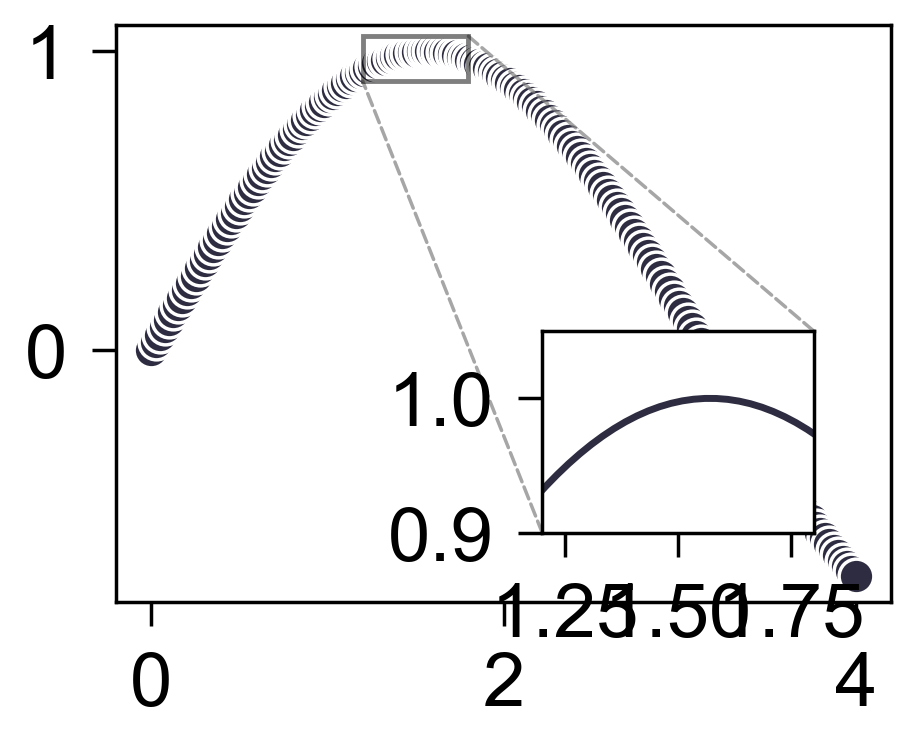
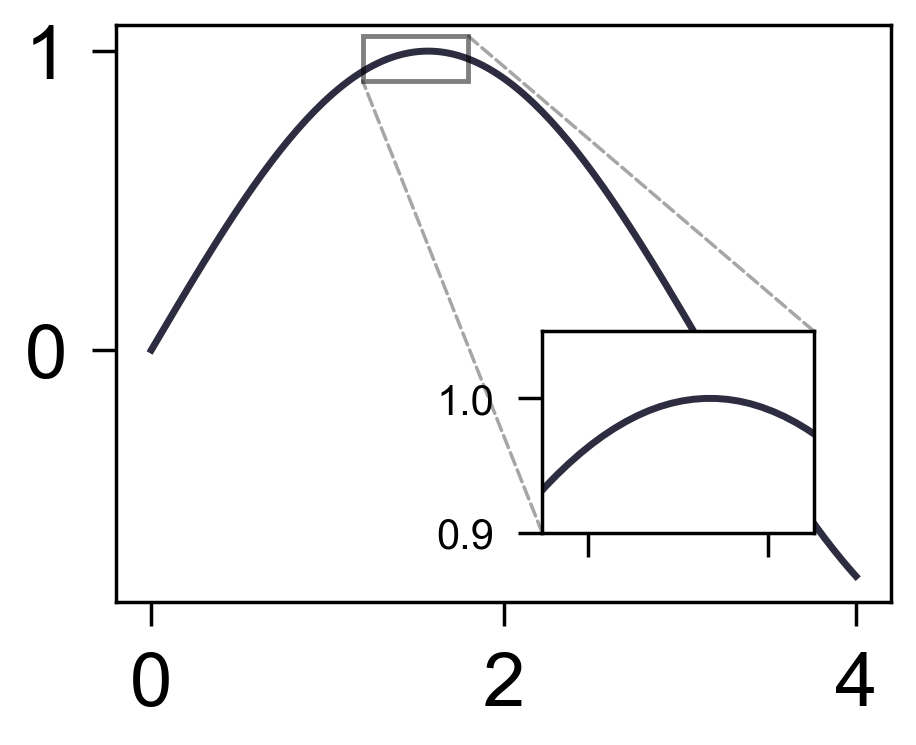
docs: refine example figures

diff --git a/docs/generate_tutorial_figures.py b/docs/generate_tutorial_figures.py
@@ -6,13 +6,15 @@ import matplotlib
 
 matplotlib.use("Agg")
 
+import matplotlib.pyplot as plt
 import numpy as np
 import pandas as pd
 
 from freeplot import FreePlot
 from freeplot.zoo import pos_radar, pre_radar
 
-OUTPUT_DIR = Path(__file__).parent / "_static" / "img" / "tutorials"
+IMG_DIR = Path(__file__).parent / "_static" / "img"
+OUTPUT_DIR = IMG_DIR / "tutorials"
 
 
 def save(fp: FreePlot, name: str) -> None:
@@ -23,9 +25,9 @@ def save(fp: FreePlot, name: str) -> None:
 def line() -> None:
     x = np.linspace(0, 2, 80)
     fp = FreePlot()
-    fp.lineplot(x, x**0.5, label="sqrt")
+    fp.lineplot(x, x**0.5, label="sqrt", marker="")
     fp.lineplot(x, x**2, label="square", marker="")
-    fp[0, 0].legend()
+    fp[0, 0].legend(frameon=False)
     save(fp, "line.png")
 
 
@@ -79,7 +81,7 @@ def stack() -> None:
     y = np.vstack([np.ones(6), np.arange(1, 7), np.linspace(2, 4, 6)])
     fp = FreePlot()
     fp.stackplot(x, y, labels=["base", "growth", "trend"])
-    fp[0, 0].legend()
+    fp[0, 0].legend(loc="upper left", bbox_to_anchor=(1.02, 1), frameon=False)
     save(fp, "stack.png")
 
 
@@ -105,7 +107,7 @@ def inset() -> None:
     x = np.linspace(0, 4, 160)
     y = np.sin(x)
     fp = FreePlot()
-    fp.lineplot(x, y, label="sin")
+    fp.lineplot(x, y, label="sin", marker="")
     axins, _patch, _lines = fp.inset_axes(
         xlims=(1.2, 1.8),
         ylims=(0.9, 1.05),
@@ -113,6 +115,8 @@ def inset() -> None:
         style="line",
     )
     fp.lineplot(x, y, index=axins, marker="")
+    axins.set_xticks([1.3, 1.7])
+    axins.tick_params(labelsize=6, labelbottom=False)
     save(fp, "inset.png")
 
 
@@ -121,8 +125,12 @@ def surface() -> None:
     y = np.arange(-4, 4, 0.25)
     X, Y = np.meshgrid(x, y)
     Z = np.sin(np.sqrt(X**2 + Y**2))
-    fp = FreePlot(projection="3d")
+    fp = FreePlot(figsize=(2.1, 2.1), projection="3d")
     fp.surfaceplot(X, Y, Z, linewidth=0)
+    fp[0, 0].view_init(elev=28, azim=-55)
+    fp[0, 0].set_xticks([-3, 0, 3])
+    fp[0, 0].set_yticks([-3, 0, 3])
+    fp[0, 0].set_zticks([-1, 0, 1])
     save(fp, "surface.png")
 
 
@@ -135,8 +143,34 @@ def radar() -> None:
     }
     fp = FreePlot(projection="radar")
     pos_radar(data, labels, fp, theta=theta)
-    fp[0, 0].legend()
+    fp[0, 0].legend(loc="upper center", bbox_to_anchor=(0.5, -0.12), ncol=2, frameon=False)
     save(fp, "radar.png")
+
+
+def overview() -> None:
+    plots = [
+        ("Line", "line.png"),
+        ("Scatter", "scatter.png"),
+        ("Bar", "bar.png"),
+        ("Histogram", "histogram.png"),
+        ("Heatmap", "heatmap.png"),
+        ("Image", "image.png"),
+        ("Stack", "stack.png"),
+        ("Violin", "violin.png"),
+        ("Contour", "contour.png"),
+        ("Inset", "inset.png"),
+        ("Surface", "surface.png"),
+        ("Radar", "radar.png"),
+    ]
+    fig, axes = plt.subplots(3, 4, figsize=(8.4, 6.0), dpi=220)
+    for ax, (title, filename) in zip(axes.ravel(), plots):
+        ax.imshow(plt.imread(OUTPUT_DIR / filename))
+        ax.set_title(title, fontsize=8)
+        ax.set_axis_off()
+    fig.subplots_adjust(left=0.02, right=0.98, bottom=0.02, top=0.93, wspace=0.08, hspace=0.24)
+    IMG_DIR.mkdir(parents=True, exist_ok=True)
+    fig.savefig(IMG_DIR / "overview.png", bbox_inches="tight")
+    plt.close(fig)
 
 
 def main() -> None:
@@ -155,6 +189,7 @@ def main() -> None:
         radar,
     ):
         plot()
+    overview()
 
 
 if __name__ == "__main__":

diff --git a/docs/tutorials/inset.rst b/docs/tutorials/inset.rst
@@ -12,7 +12,7 @@
    y = np.sin(x)
 
    fp = FreePlot()
-   fp.lineplot(x, y, label="sin")
+   fp.lineplot(x, y, label="sin", marker="")
    axins, patch, lines = fp.inset_axes(
        xlims=(1.2, 1.8),
        ylims=(0.9, 1.05),
@@ -20,6 +20,8 @@
        style="line",
    )
    fp.lineplot(x, y, index=axins, marker="")
+   axins.set_xticks([1.3, 1.7])
+   axins.tick_params(labelsize=6, labelbottom=False)
    fp.savefig("inset.png")
 
 .. image:: ../_static/img/tutorials/inset.png

diff --git a/docs/tutorials/surface.rst b/docs/tutorials/surface.rst
@@ -13,8 +13,12 @@
    X, Y = np.meshgrid(x, y)
    Z = np.sin(np.sqrt(X**2 + Y**2))
 
-   fp = FreePlot(projection="3d")
+   fp = FreePlot(figsize=(2.1, 2.1), projection="3d")
    fp.surfaceplot(X, Y, Z, linewidth=0)
+   fp[0, 0].view_init(elev=28, azim=-55)
+   fp[0, 0].set_xticks([-3, 0, 3])
+   fp[0, 0].set_yticks([-3, 0, 3])
+   fp[0, 0].set_zticks([-1, 0, 1])
    fp.savefig("surface.png")
 
 .. image:: ../_static/img/tutorials/surface.png

diff --git a/docs/tutorials/line.rst b/docs/tutorials/line.rst
@@ -10,9 +10,9 @@
 
    x = np.linspace(0, 2, 80)
    fp = FreePlot()
-   fp.lineplot(x, x**0.5, label="sqrt")
+   fp.lineplot(x, x**0.5, label="sqrt", marker="")
    fp.lineplot(x, x**2, label="square", marker="")
-   fp[0, 0].legend()
+   fp[0, 0].legend(frameon=False)
    fp.savefig("line.png")
 
 .. image:: ../_static/img/tutorials/line.png

diff --git a/docs/tutorials/radar.rst b/docs/tutorials/radar.rst
@@ -18,7 +18,7 @@
 
    fp = FreePlot(projection="radar")
    pos_radar(data, labels, fp, theta=theta)
-   fp[0, 0].legend()
+   fp[0, 0].legend(loc="upper center", bbox_to_anchor=(0.5, -0.12), ncol=2, frameon=False)
    fp.savefig("radar.png")
 
 .. image:: ../_static/img/tutorials/radar.png

diff --git a/docs/tutorials/stack.rst b/docs/tutorials/stack.rst
@@ -13,7 +13,7 @@
 
    fp = FreePlot()
    fp.stackplot(x, y, labels=["base", "growth", "trend"])
-   fp[0, 0].legend()
+   fp[0, 0].legend(loc="upper left", bbox_to_anchor=(1.02, 1), frameon=False)
    fp.savefig("stack.png")
 
 .. image:: ../_static/img/tutorials/stack.png

diff --git a/README.md b/README.md
@@ -38,7 +38,7 @@ x = np.linspace(0, 2, 20)
 y = x**2
 
 fp = FreePlot(shape=(1, 1), figsize=(2.4, 3.2), dpi=160)
-fp.lineplot(x, y, label="x^2")
+fp.lineplot(x, y, label="x^2", marker="")
 fp.set(xlabel="x", ylabel="y")
 fp[0, 0].legend()
 fp.savefig("quickstart.png")

diff --git a/README_zh_CN.md b/README_zh_CN.md
@@ -38,7 +38,7 @@ x = np.linspace(0, 2, 20)
 y = x**2
 
 fp = FreePlot(shape=(1, 1), figsize=(2.4, 3.2), dpi=160)
-fp.lineplot(x, y, label="x^2")
+fp.lineplot(x, y, label="x^2", marker="")
 fp.set(xlabel="x", ylabel="y")
 fp[0, 0].legend()
 fp.savefig("quickstart.png")

diff --git a/docs/quickstart.rst b/docs/quickstart.rst
@@ -17,7 +17,7 @@
    y = x**2
 
    fp = FreePlot(shape=(1, 1), figsize=(2.4, 3.2), dpi=160)
-   fp.lineplot(x, y, label="x^2")
+   fp.lineplot(x, y, label="x^2", marker="")
    fp.set(xlabel="x", ylabel="y")
    fp[0, 0].legend()
    fp.savefig("quickstart.png")
